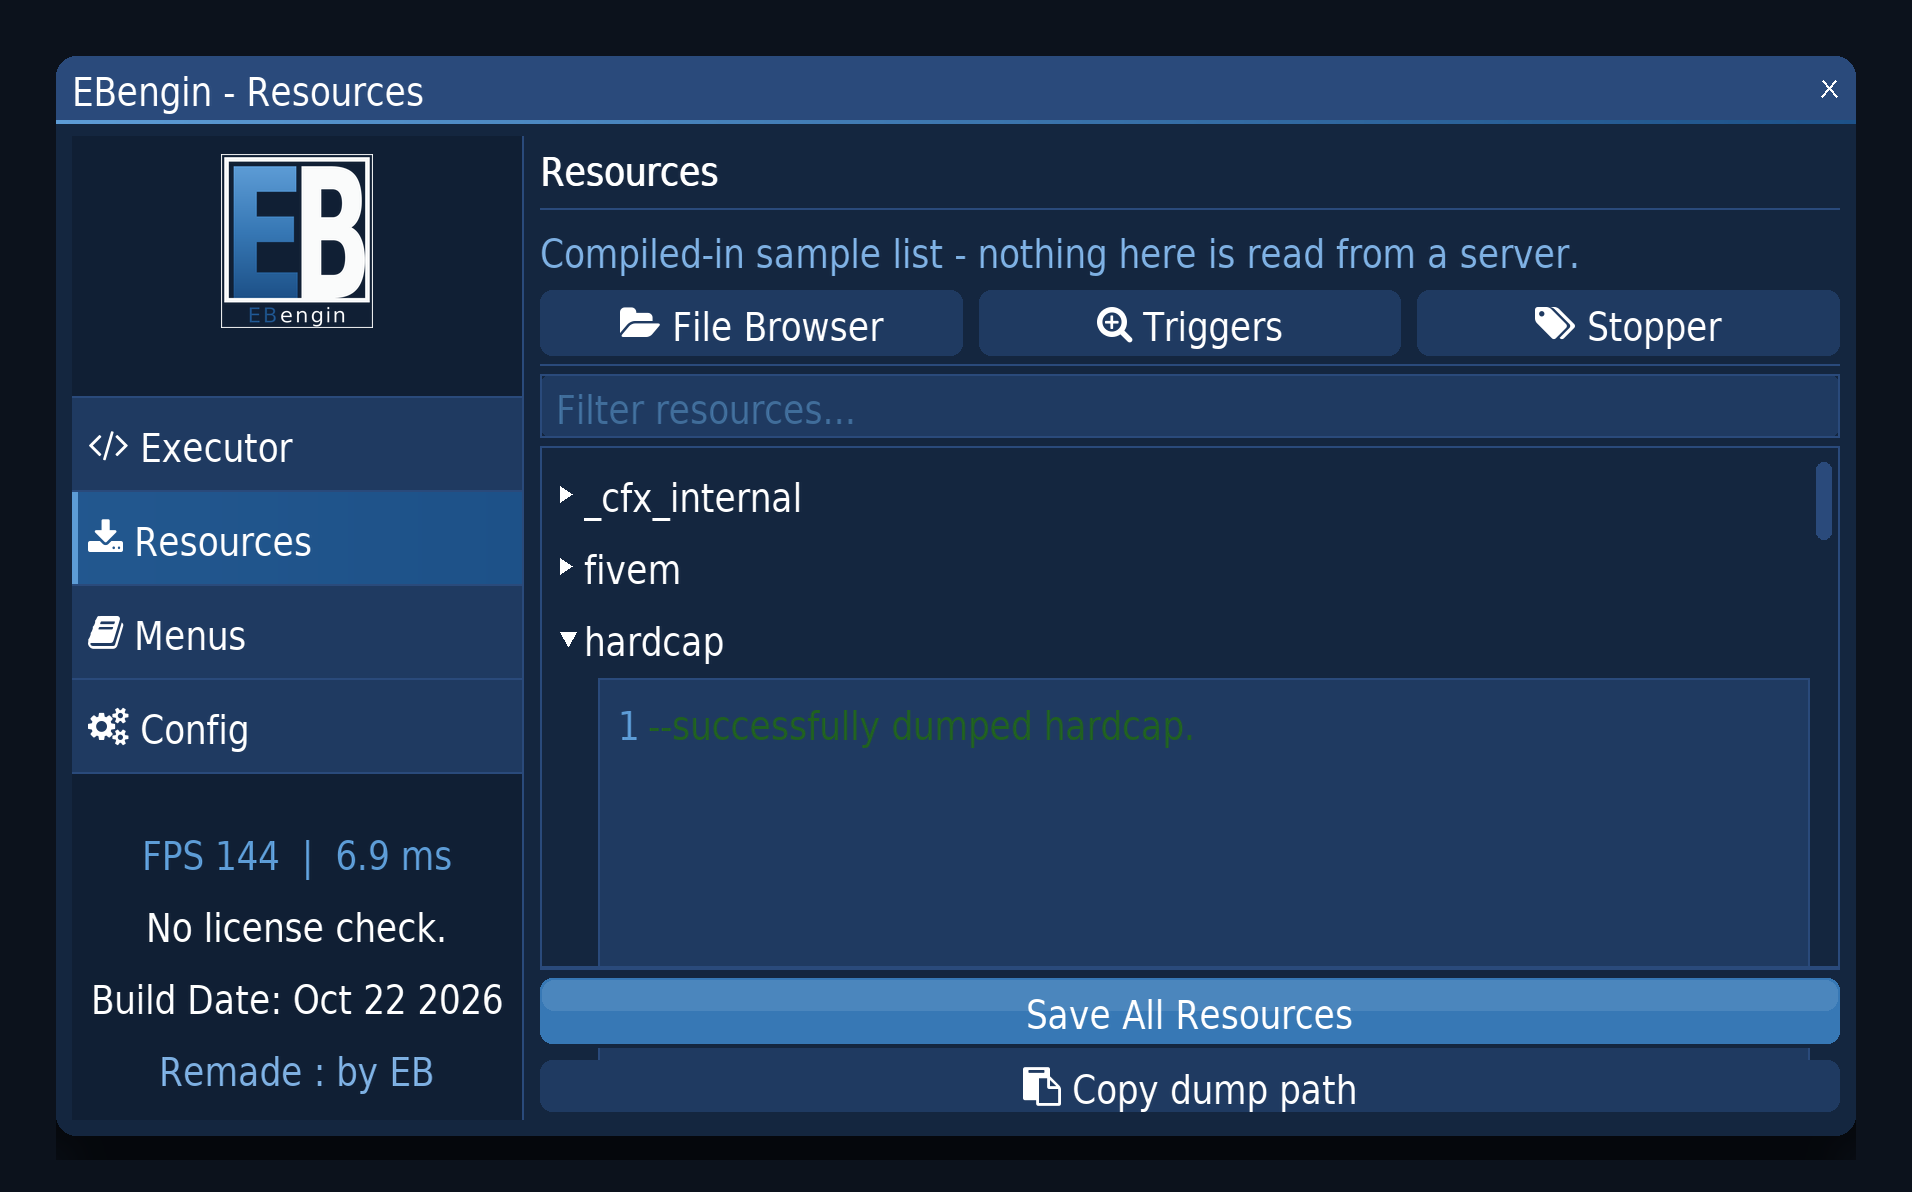
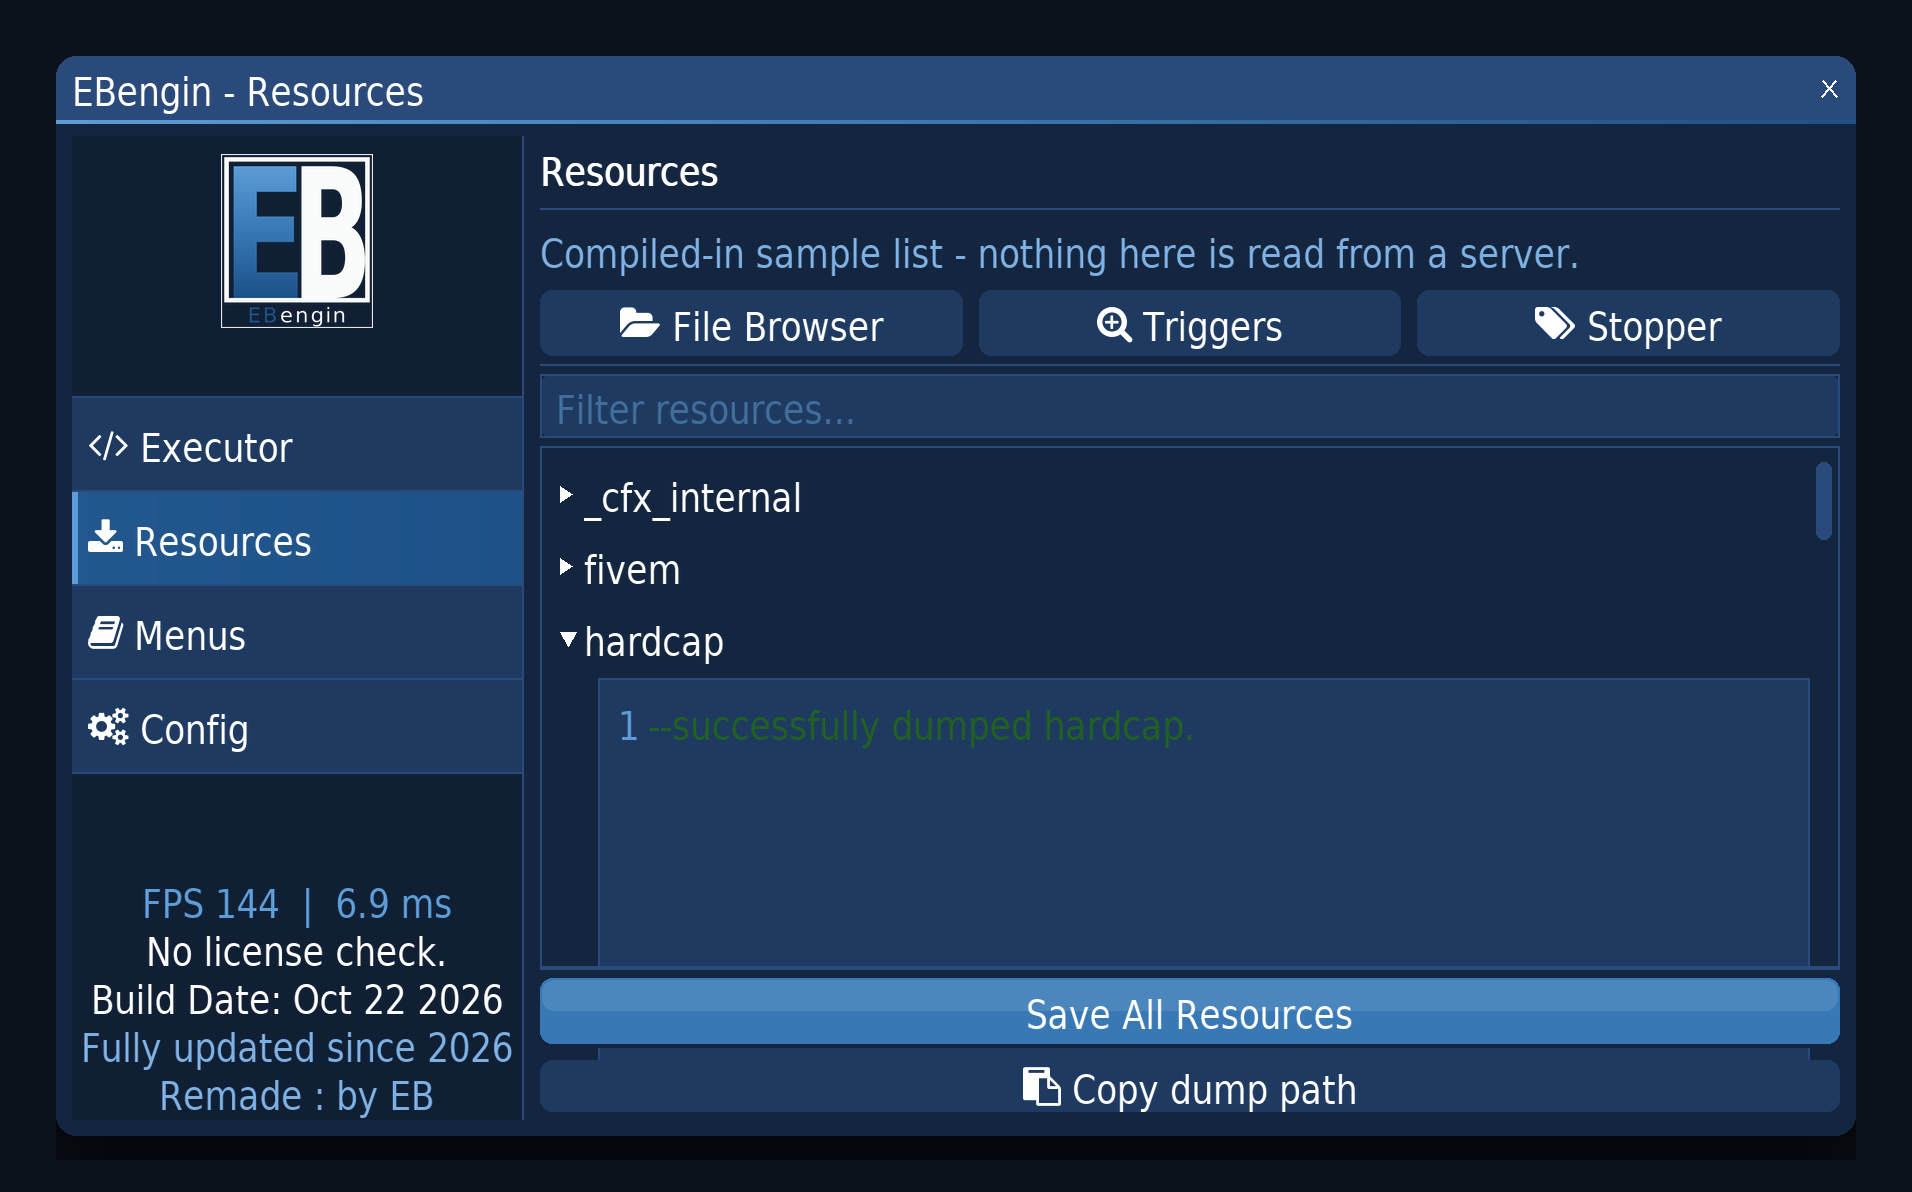
ui: add 'Fully updated since 2026' status line to sidebar, splash and About (row 251)

Changed region(s): [[0.0617, 0.7139, 0.2469, 0.807], [0.0309, 0.8691, 0.2777, 0.9312]]

diff --git a/docs/render_preview.py b/docs/render_preview.py
@@ -399,9 +399,9 @@ if TAB == "splash":
                   460.0 - 16)
     ADV = FONT_SIZE + ITEM_SPACING_Y
     CWc = 460.0
-    # UI: row 228 - the card grows by one line advance per wrapped hint line
-    CHc = 288.0 + (len(HINT1L) + len(HINT2L) - 2) * ADV
-    CHw = 288.0 + (len(HINT1L) + len(HINT2P) - 2) * ADV   # worst-case height
+    # UI: row 228 / row 251 - 312 base height includes the "Fully updated since 2026" line
+    CHc = 312.0 + (len(HINT1L) + len(HINT2L) - 2) * ADV
+    CHw = 312.0 + (len(HINT1L) + len(HINT2P) - 2) * ADV   # worst-case height
     FW, FH = W + 2 * MC, H + 2 * MC
     canvas = Image.new("RGBA", (FW * S, FH * S), (12, 18, 28, 255))
     OX, OY = (FW - CWc) / 2, (FH - CHc) / 2
@@ -423,8 +423,9 @@ if TAB == "splash":
                         radius=RADc * S, outline=C_BORDER, width=S)
 
     CREDIT = "Remade : by EB"
+    UPDATED = "Fully updated since 2026"
     BTN = "Continue"
-    for t in (CREDIT, BTN):
+    for t in (CREDIT, UPDATED, BTN):
         assert TW(t) <= CWc - 16, "splash line clipped: " + t
     # UI: row 228 - the code wraps the hints at word boundaries, centres each
     # line and grows the card per extra line; prove the worst case (qualified
@@ -439,6 +440,8 @@ if TAB == "splash":
     canvas.alpha_composite(lg, (int((OX + (CWc - 110) / 2) * S), int(ly * S)))
     ly += 127 + ITEM_SPACING_Y
     T(OX + (CWc - TW(CREDIT)) / 2, ly, CREDIT, C_MUTED_BRAND)
+    ly += FONT_SIZE + ITEM_SPACING_Y
+    T(OX + (CWc - TW(UPDATED)) / 2, ly, UPDATED, C_MUTED_BRAND)
     ly += FONT_SIZE + ITEM_SPACING_Y
     ly += ITEM_SPACING_Y                              # ImGui::Spacing()
     R(OX + 8, ly, OX + CWc - 8, ly + 1, C_BORDER)     # Gui::Seperator
@@ -588,14 +591,18 @@ for i, (glyph, label) in enumerate(SIDEBAR):
     by += 1
 
 # footer: bottom-anchored, each line centred in the sidebar column
-FOOTER_TOP = H - WIN_PAD - 4 * LINE_ADV
+# UI: row 251 - menu.cpp steps by GetTextLineHeightWithSpacing() (FONT_SIZE +
+# ITEM_SPACING_Y) across 5 lines including "Fully updated since 2026".
+FOOTER_ADV = FONT_SIZE + ITEM_SPACING_Y
+FOOTER_TOP = H - WIN_PAD - 5 * FOOTER_ADV
 FOOTER = [("FPS 144  |  6.9 ms", C_ACCENT),
           ("No license check.", C_TEXT),
           ("Build Date: Oct 22 2026", C_TEXT),
+          ("Fully updated since 2026", C_MUTED_BRAND),
           ("Remade : by EB", C_MUTED_BRAND)]
 for k, (line, col) in enumerate(FOOTER):
     assert TW(line) <= SIDEBAR_W, "Footer ueberlaeuft die Sidebar: %s" % line
-    T(SX0 + (SIDEBAR_W - TW(line)) / 2, FOOTER_TOP + k * LINE_ADV, line, col)
+    T(SX0 + (SIDEBAR_W - TW(line)) / 2, FOOTER_TOP + k * FOOTER_ADV, line, col)
 
 if TAB == "executor":
     # content column: Executor::Render()
@@ -827,6 +834,8 @@ elif TAB == "config":
     ry += TEXT_LH + ITEM_SPACING_Y
     T(rx0, ry, "Remade : by EB", C_MUTED)
     ry += TEXT_LH + ITEM_SPACING_Y
+    T(rx0, ry, "Fully updated since 2026", C_MUTED)
+    ry += TEXT_LH + ITEM_SPACING_Y
     # code prints ImGui::GetVersion(); the preview pins the vendored tag
     T(rx0, ry, "Interface: ImGui 1.93.0 (ocornut)", C_MUTED)
     ry += TEXT_LH + ITEM_SPACING_Y
@@ -865,7 +874,7 @@ elif TAB == "config":
             + 2 * FRAME_PAD_X + 12 <= pane_w), "corner combo row clipped"
     for s in ("Server related stuff", "Connects to no server; reads no server IP.",
               "The Dumps folder is its server artifact:", "Open dumps folder",
-              "About", "EBengin", "Remade : by EB", "Interface: ImGui 1.93.0 (ocornut)",
+              "About", "EBengin", "Remade : by EB", "Fully updated since 2026", "Interface: ImGui 1.93.0 (ocornut)",
               "Build: Release x64", "Build: Release Win32 (x86)",
               "Build: Debug x64 (asserts on, slower)",
               "Build: Debug Win32 (asserts on, slower)",

diff --git a/menu.cpp b/menu.cpp
@@ -209,7 +209,7 @@ namespace Menu
 		snprintf(buildDate, sizeof(buildDate), "Build Date: %s", __DATE__);
 
 		ImGui::SetCursorPosY(ImGui::GetWindowHeight() - ImGui::GetStyle().WindowPadding.y
-			- 4.0f * ImGui::GetTextLineHeightWithSpacing());
+			- 5.0f * ImGui::GetTextLineHeightWithSpacing());
 
 		// Live frame rate / frame time from ImGui's own smoothed counter, so the
 		// overlay can answer "is it the menu or the game?" without a profiler.
@@ -224,6 +224,9 @@ namespace Menu
 		// was a hardcoded constant.  The footer states the fact instead.
 		CenteredInSidebar("No license check.");
 		CenteredInSidebar(buildDate);
+		// UI: row 251 - owner-requested status line across sidebar footer, splash
+		// card and Config About block.
+		CenteredInSidebarColored("Fully updated since 2026", ColMuted);
 
 		// Visible brand credit, same wording as the source comment.
 		CenteredInSidebarColored("Remade : by EB", ColMuted);
@@ -332,7 +335,7 @@ namespace Menu
 		const std::vector<std::string> h2 = WrapHint(hint2, hintW);
 		const float lineAdv = ImGui::GetTextLineHeightWithSpacing();
 		const ImVec2 card(Settings::Px(460.0f),
-			Settings::Px(288.0f) + (float)(h1.size() + h2.size() - 2) * lineAdv);
+			Settings::Px(312.0f) + (float)(h1.size() + h2.size() - 2) * lineAdv);
 		// UI: row 220 - ApplyStyle()/ApplyScale() keep style.WindowMinSize at the
 		// shell's 900x540 (times scale), and ImGui clamps every window without
 		// AlwaysAutoResize to it (imgui.cpp CalcWindowMinSize): SetNextWindowSize
@@ -388,6 +391,8 @@ namespace Menu
 		}
 
 		Centered("Remade : by EB", ColMuted);
+		// UI: row 251 - owner-requested status line on the splash card.
+		Centered("Fully updated since 2026", ColMuted);
 
 		ImGui::Spacing();
 		Gui::Seperator("##splash_seperator");

diff --git a/config.cpp b/config.cpp
@@ -391,6 +391,8 @@ namespace Config
 		Gui::Seperator("##about_seperator_1");
 		ImGui::TextColored(ImColor(93, 156, 214, 255), "EBengin");
 		ImGui::TextColored(ColMuted, "Remade : by EB");
+		// UI: row 251 - owner-requested status line in the About block.
+		ImGui::TextColored(ColMuted, "Fully updated since 2026");
 		// GetVersion() reports the version the linked imgui.cpp was compiled
 		// with, so this line can never drift from the vendored sources.
 		ImGui::TextColored(ColMuted, "Interface: ImGui %s (ocornut)",

diff --git a/BUILD.md b/BUILD.md
@@ -400,6 +400,7 @@ Separate from the build fixes above: these are bugs that compiled fine but misbe
 | 248 | Four startup/teardown races in `main.cpp`: (1) `PresentFrame` (`!init`) installed `WndProc` via `SetWindowLongPtr` *before* calling `InitImGui()` (`CreateContext`, font bake, `ImGui_ImplWin32_Init`, asset/ini load), and `WndProc` did not check `!init`, so on hosts whose window thread differs from the render thread (GTA V / FiveM), window messages entered `ImGui_ImplWin32_WndProcHandler` while `InitImGui()` was mutating the half-constructed context on the render thread; (2) `g_frameActive` was never cleared in `CleanupImGui()` or `FaultDisable()`; (3) early-out paths in `PresentFrame` (`!init`) and `CleanupImGui()` leaked `pContext`/`pDevice` COM references; (4) the `DLL_PROCESS_ATTACH` duplicate-mutex rejection emitted `OutputDebugStringA` without writing the `hook skipped` line to `EBengin.log` | `PresentFrame` now completes `InitImGui()` and sets `init = true` before installing `WndProc`; `WndProc` and `WndProcFrame` check `!init`; `CleanupImGui()` and `FaultDisable()` clear `g_frameActive = false`; `PresentFrame` early-outs and `CleanupImGui()` release `pContext`/`pDevice`; `DLL_PROCESS_ATTACH` logs `hook skipped: instance already active in this process` to `EBengin.log` on `ERROR_ALREADY_EXISTS` |
 | 249 | Holding `mainRenderTargetView` and `g_backBuffer` across `Present` frames (and leaving `mainRenderTargetView` bound on `pContext` via `OMSetRenderTargets`, which `ImGui_ImplDX11_RenderDrawData` does not save/restore) kept three live references to swap-chain buffer 0 while the host game ran between frames; because this DLL hooks `Present` only and not `ResizeBuffers`, any host call to `IDXGISwapChain::ResizeBuffers` (window resize, Alt+Tab, borderless/fullscreen switch) saw non-zero buffer-0 references and failed with `DXGI_ERROR_INVALID_CALL` (`0x887A0001`), besides clobbering the host's bound RTV/DSV | `CreateRenderTarget` now releases `pBackBuffer` immediately and creates `mainRenderTargetView` per frame; around `ImGui_ImplDX11_RenderDrawData`, `PresentFrame` saves/restores the host's `OMGetRenderTargets` (`oldRTV`/`oldDSV`) and calls `CleanupRenderTarget()` before `oPresent`, so zero references to swap-chain buffer 0 are ever held outside the draw call and both same-size and different-size `ResizeBuffers` calls succeed cleanly |
 | 250 | Full-project compile and build-script audit surfaced three remaining hygiene gaps: (1) `MainThread(LPVOID lpReserved)` in `main.cpp` never referenced `lpReserved` (`C4100` / `-Wunused-parameter`), and `WIN32_FILE_ATTRIBUTE_DATA attr = { 0 };` in `LogHookLine` triggered `-Wmissing-field-initializers`; (2) `demo.cpp:80` passed `NULL` (a pointer constant) instead of `MB_OK` as the `UINT uType` argument of `MessageBoxA` (`-Wconversion-null`); (3) `build.bat` hardcoded `%~dp0%PLATFORM%\%CONFIG%` for `OUT` and the `EBengin.png` copy, whereas MSBuild's default `Win32` `OutDir` is `%~dp0%CONFIG%\` (as `build.bat Clean` already assumed) | Added `(void)lpReserved;` in `MainThread` and value-initialized `attr = {}` in `LogHookLine` (`main.cpp`); changed the 4th argument of `MessageBoxA` in `demo.cpp` from `NULL` to `MB_OK`; resolved `OUTDIR` in `build.bat` so both `x64` (`x64\<Config>`) and `Win32` (`<Config>`) report the built DLL path and copy `EBengin.png` accurately |
+| 251 | Owner requested adding a `"Fully updated since 2026"` UI status line across the branding surfaces (`ask_user` selection: UI label in `menu.cpp` / `config.cpp`, value `2026`); in addition, `docs/render_preview.py` stepped the sidebar footer by `LINE_ADV` (`36`, frame height) instead of `FONT_SIZE + ITEM_SPACING_Y` (`24`, `GetTextLineHeightWithSpacing()`), which did not match `menu.cpp:212` | Added `"Fully updated since 2026"` in `ColMuted` to the sidebar footer (`menu.cpp`, anchored at `5.0f * GetTextLineHeightWithSpacing()`), the first-open splash card (`menu.cpp`, base height `288 -> 312`), and the Config `About` block (`config.cpp`); updated `docs/render_preview.py` to render and width/height-assert the new line on all three surfaces using `FOOTER_ADV = FONT_SIZE + ITEM_SPACING_Y` |
 
 
 

diff --git a/CHANGELOG.md b/CHANGELOG.md
@@ -11,6 +11,16 @@ say so in the UI - see README and PR #1.
 "row N" refers to the fix table in `BUILD.md` §5.  The PR body carries a summary
 and the verification anchor only; per-batch write-ups live here and in the commits.
 
+## Add "Fully updated since 2026" UI status line (row 251)
+- `menu.cpp`: added `"Fully updated since 2026"` (`ColMuted`) to the sidebar footer (updating the
+  bottom anchor from `4.0f` to `5.0f * ImGui::GetTextLineHeightWithSpacing()`) and to the first-open
+  splash card under `"Remade : by EB"` (updating the base card height from `288.0f` to `312.0f`).
+- `config.cpp`: added `"Fully updated since 2026"` (`ColMuted`) to the `About` block under
+  `"Remade : by EB"`.
+- `docs/render_preview.py`: updated the sidebar footer (stepping by `FONT_SIZE + ITEM_SPACING_Y` to
+  match `ImGui::GetTextLineHeightWithSpacing()`), the `--splash` scene, and the `--config` `About`
+  block + width/height assertions, and regenerated the preview PNGs.
+
 ## Full-project compile hygiene and build.bat Win32 OutDir fix (row 250)
 - `main.cpp`: added `(void)lpReserved;` in `MainThread` (`C4100` / `-Wunused-parameter`) and
   value-initialized `WIN32_FILE_ATTRIBUTE_DATA attr = {};` in `LogHookLine`
